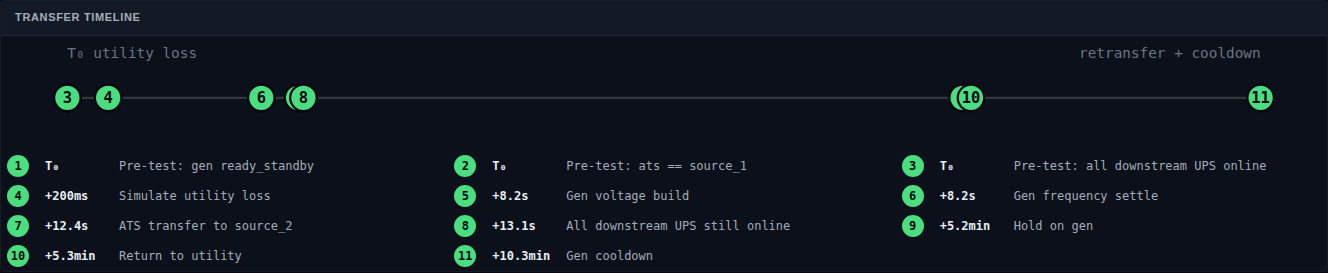
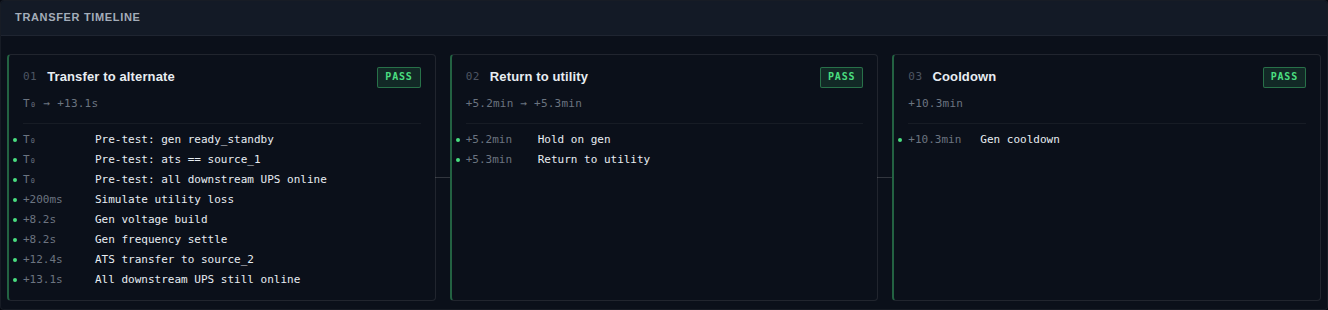
ATS transfer timeline: replace dot strip with phase pipeline
Steps that share a time offset (T₀ pre-tests, simultaneous gen
voltage/frequency settle, hold/return) collided on the dot axis. Cluster
the sequence into time-gap-separated phases (Transfer to alternate,
Return to utility, Cooldown) and render each as a card with index, name,
status pill, time range, and step list.

diff --git a/frontend/src/pages/AtsConsole.jsx b/frontend/src/pages/AtsConsole.jsx
@@ -121,50 +121,68 @@ function formatT(ms) {
   return `+${(ms / 3_600_000).toFixed(2)}h`;
 }
 
-function TransferTimeline({ sequence }) {
-  const W = 1200, H = 90;
-  const padX = 60;
-  const axisY = 56;
-  const totalMs = Math.max(1, sequence[sequence.length - 1].t_offset_ms);
-  const xFor = (ms) => padX + Math.pow(ms / totalMs, 0.42) * (W - 2 * padX);
+function clusterPhases(sequence) {
+  // Group consecutive steps whose time gap to the previous step is less than
+  // a phase boundary (60 s). Each cluster becomes a phase card.
+  const phases = [];
+  const boundaryMs = 60_000;
+  for (let i = 0; i < sequence.length; i++) {
+    const s = sequence[i];
+    const last = phases[phases.length - 1];
+    if (!last || s.t_offset_ms - last.endMs >= boundaryMs) {
+      phases.push({ steps: [s], startMs: s.t_offset_ms, endMs: s.t_offset_ms });
+    } else {
+      last.steps.push(s);
+      last.endMs = s.t_offset_ms;
+    }
+  }
+  return phases;
+}
 
+function phaseTitle(phase, index, totalPhases) {
+  const names = phase.steps.map((s) => (s.step || "").toLowerCase());
+  if (names.some((n) => n.includes("transfer to source"))) return "Transfer to alternate";
+  if (names.some((n) => n.includes("return to utility")))  return "Return to utility";
+  if (names.some((n) => n.includes("cooldown")))           return "Cooldown";
+  if (names.every((n) => n.startsWith("pre-test")))        return "Pre-test";
+  if (index === 0) return "Pre-test";
+  if (index === totalPhases - 1) return "Cooldown";
+  return `Phase ${index + 1}`;
+}
+
+function TransferTimeline({ sequence }) {
+  const phases = clusterPhases(sequence);
   return (
-    <div>
-      <svg viewBox={`0 0 ${W} ${H}`} width="100%" preserveAspectRatio="xMidYMid meet">
-        <line x1={padX} y1={axisY} x2={W - padX} y2={axisY}
-              stroke="var(--border-strong)" strokeWidth="2" />
-        <text x={padX} y={20} fontSize="13" fill="var(--text-tertiary)"
-              fontFamily="var(--font-mono)">
-          T₀ utility loss
-        </text>
-        <text x={W - padX} y={20} fontSize="13" fill="var(--text-tertiary)"
-              fontFamily="var(--font-mono)" textAnchor="end">
-          retransfer + cooldown
-        </text>
-        {sequence.map((s, i) => {
-          const x = xFor(s.t_offset_ms);
-          return (
-            <g key={i}>
-              <circle cx={x} cy={axisY} r="12"
-                      fill={s.passed ? "var(--pass)" : "var(--fail)"}
-                      stroke="var(--bg-base)" strokeWidth="2" />
-              <text x={x} y={axisY + 5} fontSize="14" fill="var(--text-inverse)"
-                    textAnchor="middle" fontFamily="var(--font-mono)" fontWeight="700">
-                {i + 1}
-              </text>
-            </g>
-          );
-        })}
-      </svg>
-      <div className="timeline-legend">
-        {sequence.map((s, i) => (
-          <div key={i} className="timeline-legend-row">
-            <span className={s.passed ? "tl-num pass" : "tl-num fail"}>{i + 1}</span>
-            <span className="tl-time">{formatT(s.t_offset_ms)}</span>
-            <span className="tl-step">{s.step || s.name || ""}</span>
-          </div>
-        ))}
-      </div>
+    <div className="ats-pipeline">
+      {phases.map((p, i) => {
+        const allPassed = p.steps.every((s) => s.passed);
+        const range = p.startMs === p.endMs
+          ? formatT(p.startMs)
+          : `${formatT(p.startMs)} → ${formatT(p.endMs)}`;
+        return (
+          <React.Fragment key={i}>
+            <div className={`ats-phase ${allPassed ? "ok" : "bad"}`}>
+              <div className="ats-phase-head">
+                <span className="ats-phase-idx">{String(i + 1).padStart(2, "0")}</span>
+                <span className="ats-phase-name">{phaseTitle(p, i, phases.length)}</span>
+                <span className={`ats-phase-status ${allPassed ? "ok" : "bad"}`}>
+                  {allPassed ? "PASS" : "FAIL"}
+                </span>
+              </div>
+              <div className="ats-phase-range">{range}</div>
+              <ul className="ats-phase-steps">
+                {p.steps.map((s, j) => (
+                  <li key={j} className={s.passed ? "ok" : "bad"}>
+                    <span className="ats-step-t">{formatT(s.t_offset_ms)}</span>
+                    <span className="ats-step-name">{s.step || s.name || ""}</span>
+                  </li>
+                ))}
+              </ul>
+            </div>
+            {i < phases.length - 1 && <div className="ats-phase-link" aria-hidden />}
+          </React.Fragment>
+        );
+      })}
     </div>
   );
 }

diff --git a/frontend/src/styles.css b/frontend/src/styles.css
@@ -986,36 +986,98 @@ select {
 .hmi-btn      { font-size: 10px; fill: var(--text-primary); font-weight: 700; }
 .hmi-alarm    { font-size: 10px; fill: var(--fail); font-weight: 700; letter-spacing: 0.04em; }
 
-/* Transfer-timeline legend (ATS console) */
-.timeline-legend {
-  display: grid;
-  grid-template-columns: repeat(2, 1fr);
-  gap: 8px 28px;
-  padding: 14px 6px 4px;
+/* ATS transfer-pipeline: phase cards connected by hairlines */
+.ats-pipeline {
+  display: flex;
+  align-items: stretch;
+  gap: 0;
+  padding: 18px 6px 8px;
+  overflow-x: auto;
 }
-.timeline-legend-row {
-  display: grid;
-  grid-template-columns: 28px 64px 1fr;
+.ats-phase {
+  flex: 1 1 0;
+  min-width: 220px;
+  border: 1px solid var(--border-default);
+  border-left: 2px solid var(--pass-line);
+  background: var(--bg-elev-1);
+  border-radius: var(--radius-md);
+  padding: 12px 14px;
+  display: flex;
+  flex-direction: column;
+  gap: 8px;
+}
+.ats-phase.bad { border-left-color: var(--fail-line); }
+.ats-phase-head {
+  display: flex;
   align-items: center;
   gap: 10px;
+}
+.ats-phase-idx {
   font-family: var(--font-mono);
-  font-size: 12px;
+  font-size: 11px;
+  color: var(--text-faint);
+  letter-spacing: 0.04em;
+}
+.ats-phase-name {
+  flex: 1;
+  font-size: 13px;
+  font-weight: 600;
+  color: var(--text-primary);
+  letter-spacing: 0.01em;
+}
+.ats-phase-status {
+  font-family: var(--font-mono);
+  font-size: 10px;
+  font-weight: 700;
+  letter-spacing: 0.08em;
+  padding: 2px 7px;
+  border-radius: 2px;
+}
+.ats-phase-status.ok  { color: var(--pass); background: var(--pass-dim); border: 1px solid var(--pass-line); }
+.ats-phase-status.bad { color: var(--fail); background: var(--fail-dim); border: 1px solid var(--fail-line); }
+.ats-phase-range {
+  font-family: var(--font-mono);
+  font-size: 11px;
+  color: var(--text-tertiary);
+  letter-spacing: 0.02em;
+}
+.ats-phase-steps {
+  list-style: none;
+  margin: 4px 0 0;
+  padding: 0;
+  display: flex;
+  flex-direction: column;
+  gap: 4px;
+  border-top: 1px solid var(--border-subtle);
+  padding-top: 8px;
+}
+.ats-phase-steps li {
+  display: grid;
+  grid-template-columns: 64px 1fr;
+  gap: 8px;
+  font-family: var(--font-mono);
+  font-size: 11px;
+  align-items: baseline;
   color: var(--text-secondary);
 }
-.tl-num {
-  display: inline-flex;
-  align-items: center;
-  justify-content: center;
-  width: 22px;
-  height: 22px;
+.ats-phase-steps li::before {
+  content: "";
+  position: absolute;
+  margin-left: -10px;
+  margin-top: 6px;
+  width: 4px;
+  height: 4px;
   border-radius: 50%;
-  font-weight: 700;
-  color: var(--text-inverse);
+  background: var(--pass);
 }
-.tl-num.pass { background: var(--pass); }
-.tl-num.fail { background: var(--fail); }
-.tl-time { color: var(--text-primary); font-weight: 600; }
-.tl-step { color: var(--text-secondary); }
-@media (min-width: 1100px) {
-  .timeline-legend { grid-template-columns: repeat(3, 1fr); }
+.ats-phase-steps li.bad::before { background: var(--fail); }
+.ats-step-t    { color: var(--text-tertiary); }
+.ats-step-name { color: var(--text-primary); }
+.ats-phase-link {
+  align-self: center;
+  width: 16px;
+  height: 1px;
+  background: var(--border-strong);
+  margin: 0 -1px;
+  flex: 0 0 16px;
 }
